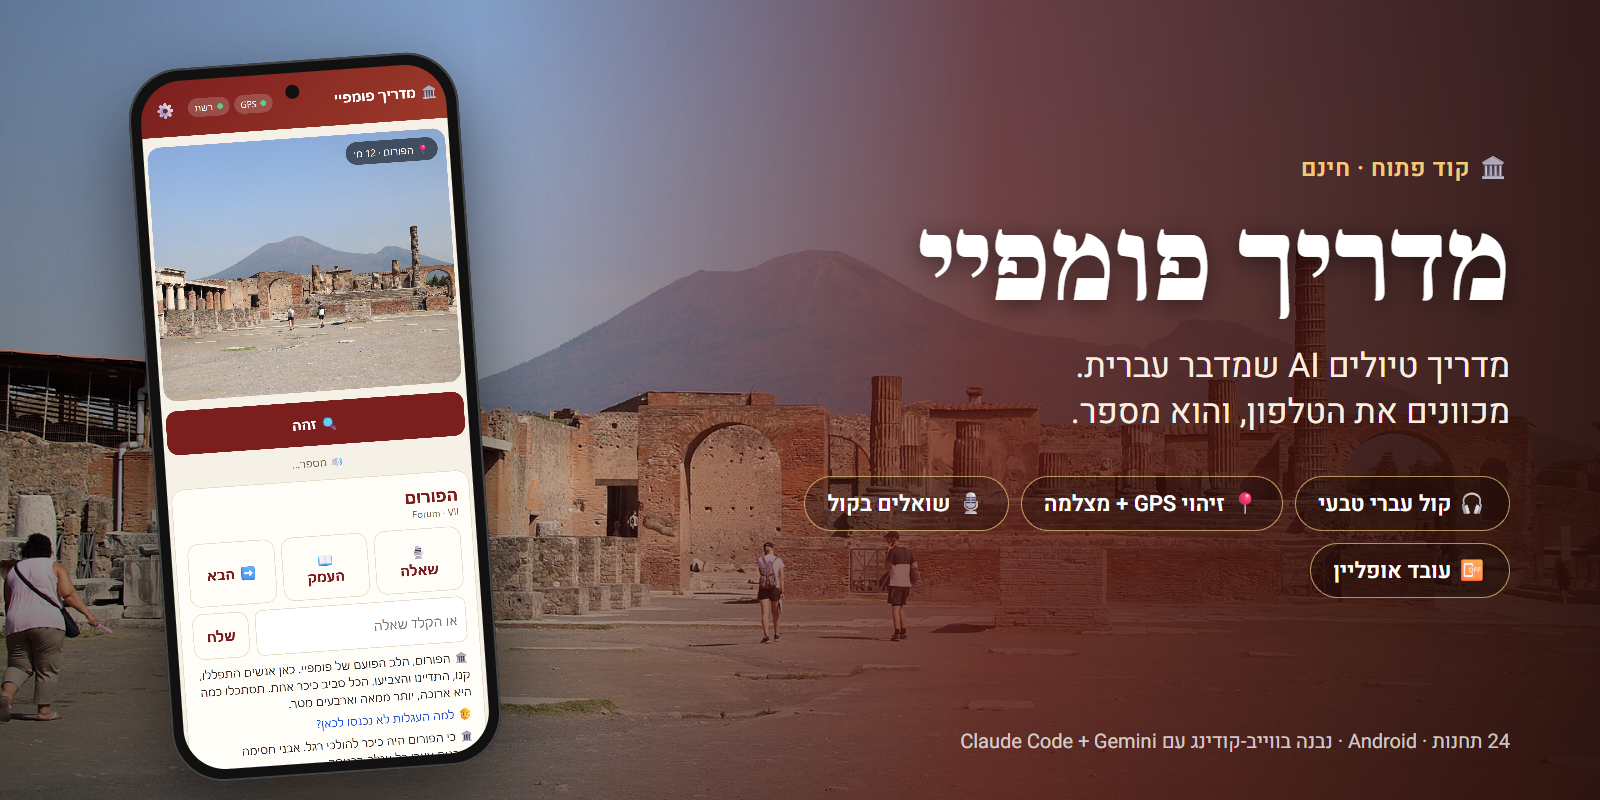
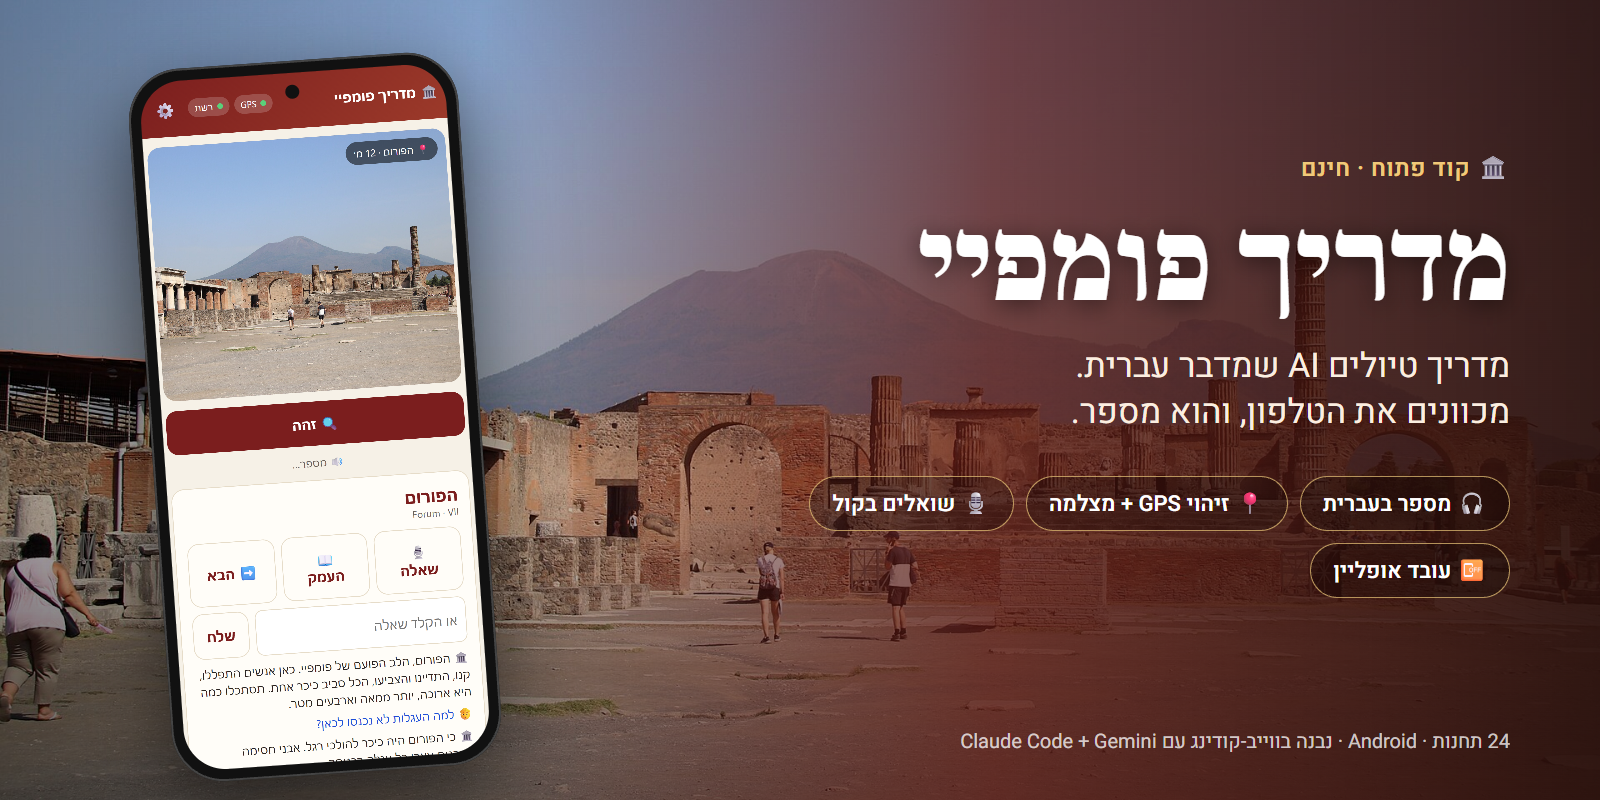
docs: narration uses the phone voice, Gemini TTS optional

Changed region(s): [[0.5, 0.5938, 0.9062, 0.6562]]

diff --git a/docs/media/banner.html b/docs/media/banner.html
@@ -22,7 +22,7 @@ h1{font-family:'Frank Ruhl Libre',serif;font-weight:900;font-size:118px;line-hei
   <div class="kicker">🏛 קוד פתוח · חינם</div>
   <h1>מדריך פומפיי</h1>
   <div class="sub">מדריך טיולים AI שמדבר עברית.<br>מכוונים את הטלפון, והוא מספר.</div>
-  <div class="pills"><span class="pill">🎧 קול עברי טבעי</span><span class="pill">📍 זיהוי GPS + מצלמה</span><span class="pill">🎙 שואלים בקול</span><span class="pill">📴 עובד אופליין</span></div>
+  <div class="pills"><span class="pill">🎧 מספר בעברית</span><span class="pill">📍 זיהוי GPS + מצלמה</span><span class="pill">🎙 שואלים בקול</span><span class="pill">📴 עובד אופליין</span></div>
 </div>
 <div class="foot">24 תחנות · Android · נבנה בווייב-קודינג עם Claude Code + Gemini</div>
 </body></html>

diff --git a/README.md b/README.md
@@ -15,7 +15,7 @@
 
 - 📍 **24 תחנות** (+2 אופציונליות) לאורך מסלול של חצי יום בפומפיי, כל אחת עם תסריט עברי שנחקר ונבדק
 - 🔍 **זיהוי אוטומטי**: GPS עם שובר-שוויון לפי המסלול, ואם רוצים גם זיהוי מתמונת המצלמה
-- 🗣 **קול עברי טבעי** (Gemini TTS), עם צחוקים, אנחות והפסקות במקומות הנכונים
+- 🗣 **מספר בעברית** בקול של הטלפון, עם תסריטים שנכתבו כמו מדריך אמיתי ולא כמו ויקיפדיה (התסריטים כבר מתויגים גם ל-Gemini TTS עם צחוקים ואנחות, למי שרוצה)
 - 🎙 **שאלות בקול** עם קטיעה (barge-in): מתחילים לדבר והמדריך עוצר ומקשיב
 - 📖 **"העמק"** למי שרוצה עוד, **"הבא"** לניווט לתחנה הבאה
 - 📴 **עובד גם בלי רשת**: הסיפור הבסיסי עובד אופליין, ורק השאלות החופשיות צריכות אינטרנט
@@ -62,7 +62,6 @@ npm run check:stops      # בדיקת תקינות התוכן
 ## סטטוס
 
 גרסה ראשונה. נבדקה בסימולציה (24/24 תחנות זוהו), והבדיקה בשטח בפומפיי היא באוקטובר 2026.
-הקולות המוקלטים מראש עדיין לא נוצרו, ועד אז האפליקציה משתמשת בקול המובנה של אנדרואיד.
 
 ## קרדיטים
 
